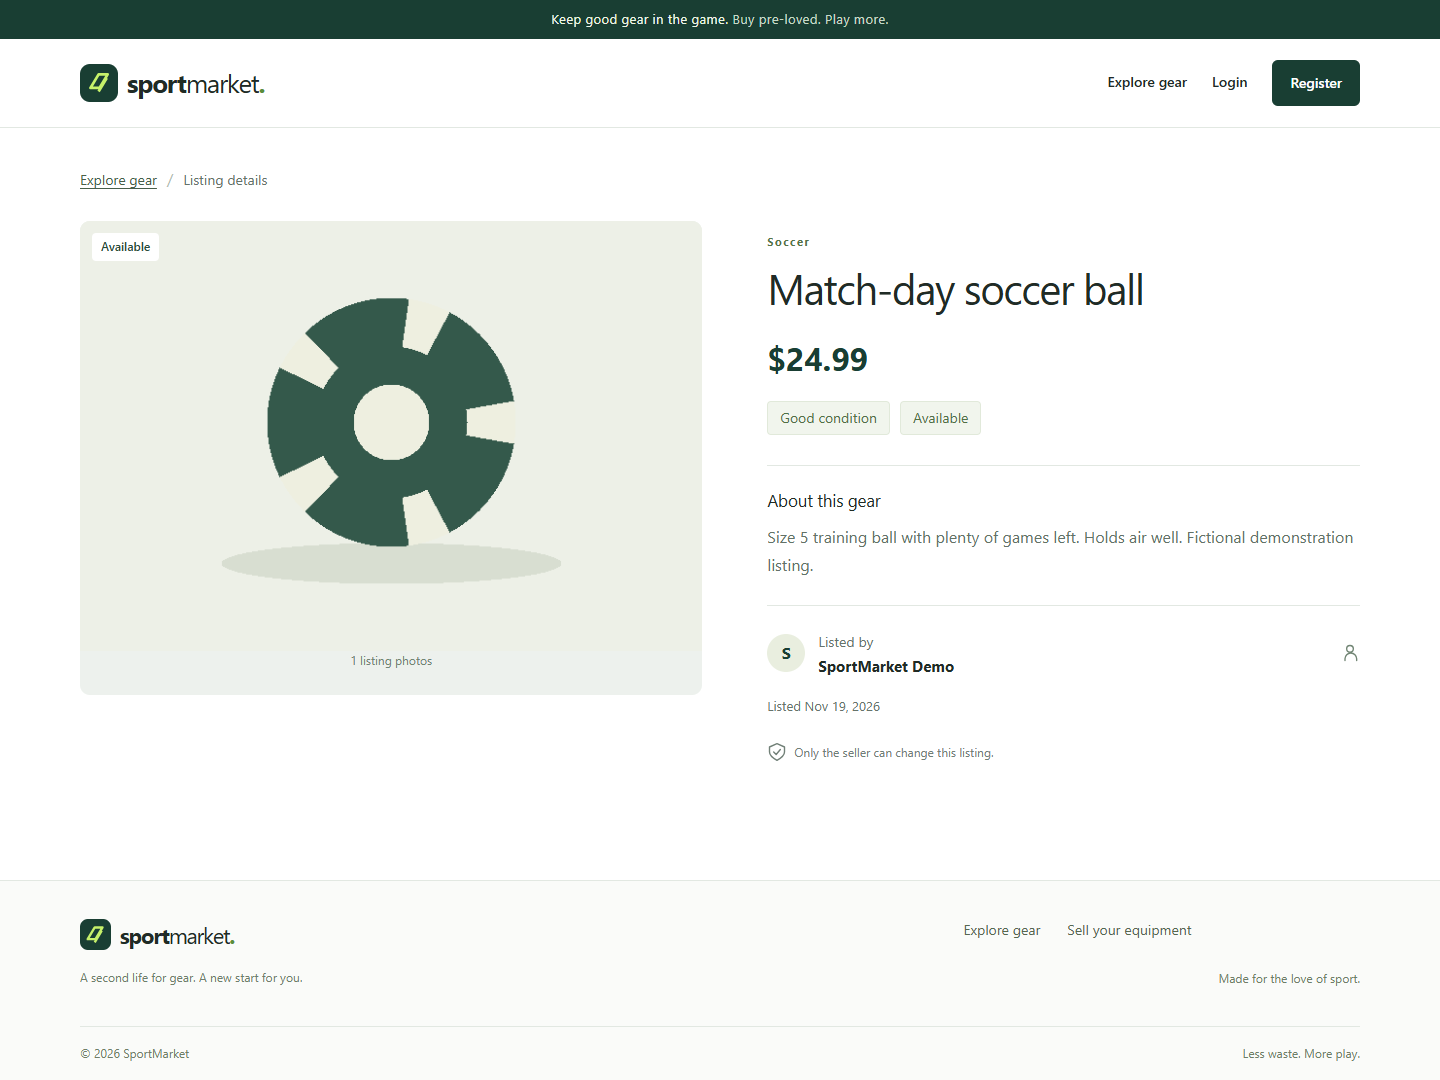
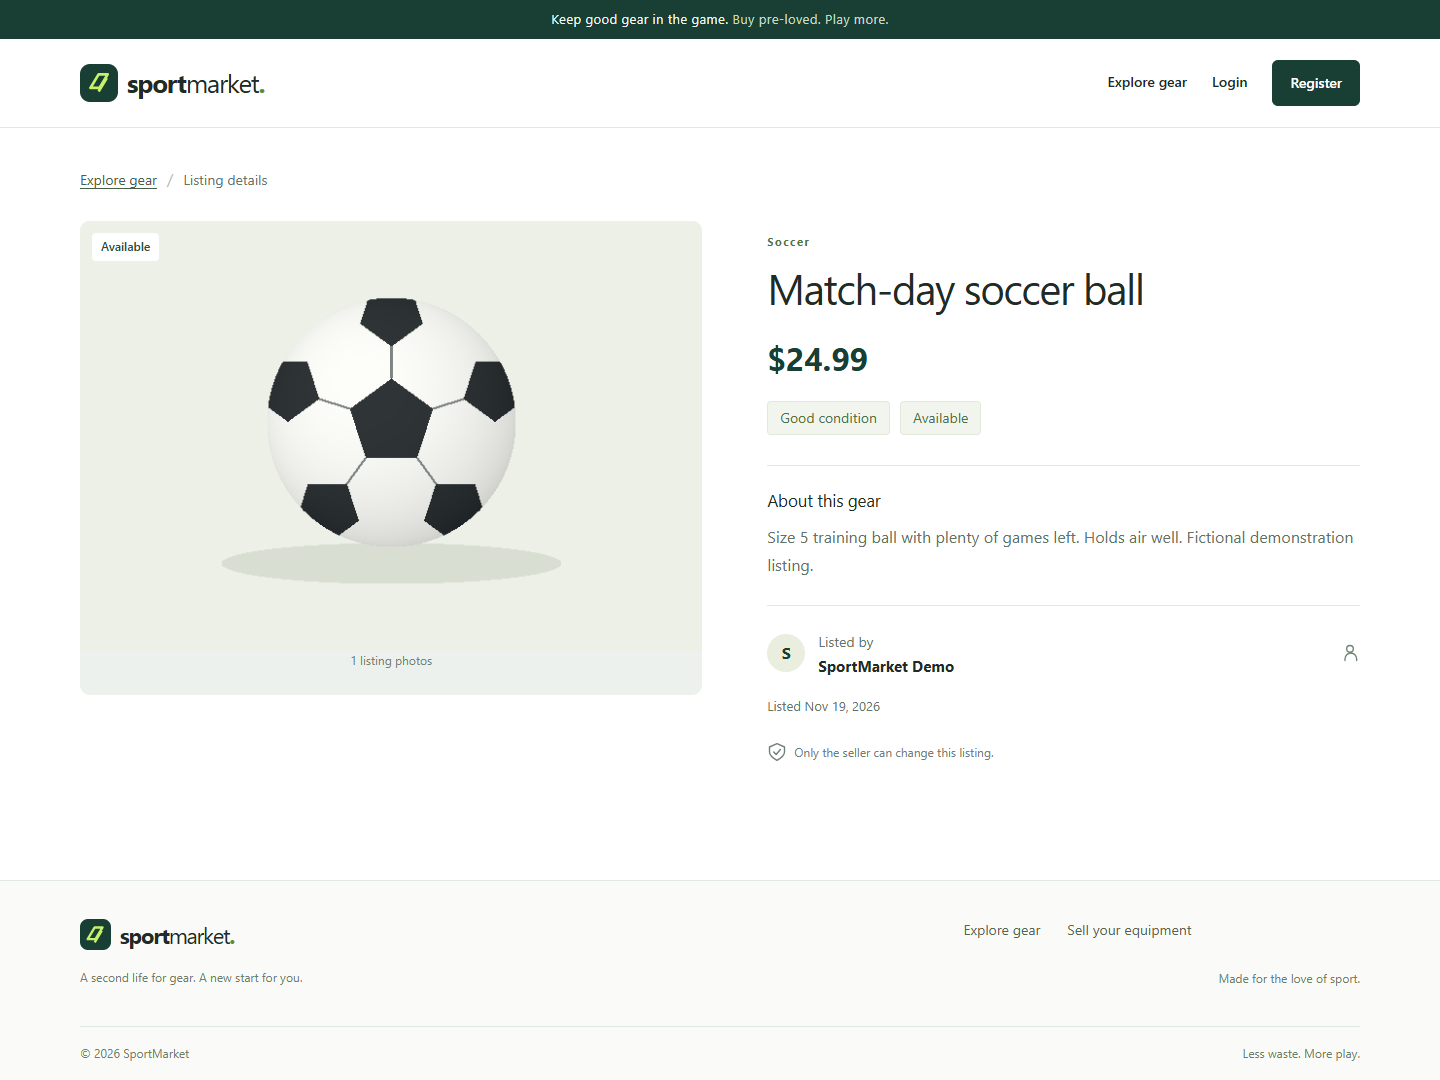
Improve soccer ball demo illustration and refresh screenshots

Changed region(s): [[0.1875, 0.275, 0.375, 0.5194]]

diff --git a/scripts/seed-demo.py b/scripts/seed-demo.py
@@ -24,6 +24,20 @@ def illustration(category):
               "Tennis": (125, 148, 64), "Fitness": (69, 86, 104),
               "Hockey": (66, 86, 101), "Baseball": (166, 104, 79), "Other": (181, 127, 45)}
     accent = colors[category]
+    def pentagon(cx, cy, radius, rotation):
+        return [(cx + radius * math.cos(rotation + i * 2 * math.pi / 5),
+                 cy + radius * math.sin(rotation + i * 2 * math.pi / 5)) for i in range(5)]
+    def inside(px, py, polygon):
+        # All panels are convex; consistent edge signs identify their interior.
+        edges = [(b[0] - a[0]) * (py - a[1]) - (b[1] - a[1]) * (px - a[0])
+                 for a, b in zip(polygon, polygon[1:] + polygon[:1])]
+        return all(edge >= 0 for edge in edges) or all(edge <= 0 for edge in edges)
+    rotation = -math.pi / 2
+    center_panel = pentagon(0, 0, 45, rotation)
+    outer_panels = [pentagon(112 * math.cos(rotation + i * 2 * math.pi / 5),
+                            112 * math.sin(rotation + i * 2 * math.pi / 5),
+                            34, rotation + i * 2 * math.pi / 5 + math.pi)
+                    for i in range(5)]
     rows = bytearray()
     for y in range(height):
         rows.append(0)
@@ -48,10 +62,20 @@ def illustration(category):
             elif dx * dx + dy * dy < 128 ** 2:
                 color = accent
                 if category == "Soccer":
-                    angle = math.atan2(dy, dx)
-                    radius = math.hypot(dx, dy)
-                    if radius < 39 or (radius > 78 and math.cos(5 * angle) > 0.65):
-                        color = (238, 239, 224)
+                    # White leather, dark pentagonal panels, fine seams, and spherical shading.
+                    depth = math.sqrt(max(0, 1 - (dx * dx + dy * dy) / 128 ** 2))
+                    light = max(0, min(1, 0.45 + 0.5 * depth - 0.16 * dx / 128 - 0.2 * dy / 128))
+                    shade = int(191 + 62 * light)
+                    color = (shade, shade, max(0, shade - 3))
+                    if any(inside(dx, dy, panel) for panel in [center_panel] + outer_panels):
+                        dark = int(24 + 24 * light)
+                        color = (dark, dark + 5, dark + 7)
+                    else:
+                        for vx, vy in center_panel:
+                            along = (dx * vx + dy * vy) / (45 * 45)
+                            if 1 < along < 2.5 and abs(dx * vy - dy * vx) / 45 < 1.1:
+                                color = (126, 132, 129)
+                                break
                 elif category == "Basketball":
                     if abs(dx) < 4 or abs(dy) < 4 or abs(abs(dx) - (55 + 0.002 * dy * dy)) < 4:
                         color = (66, 47, 35)
